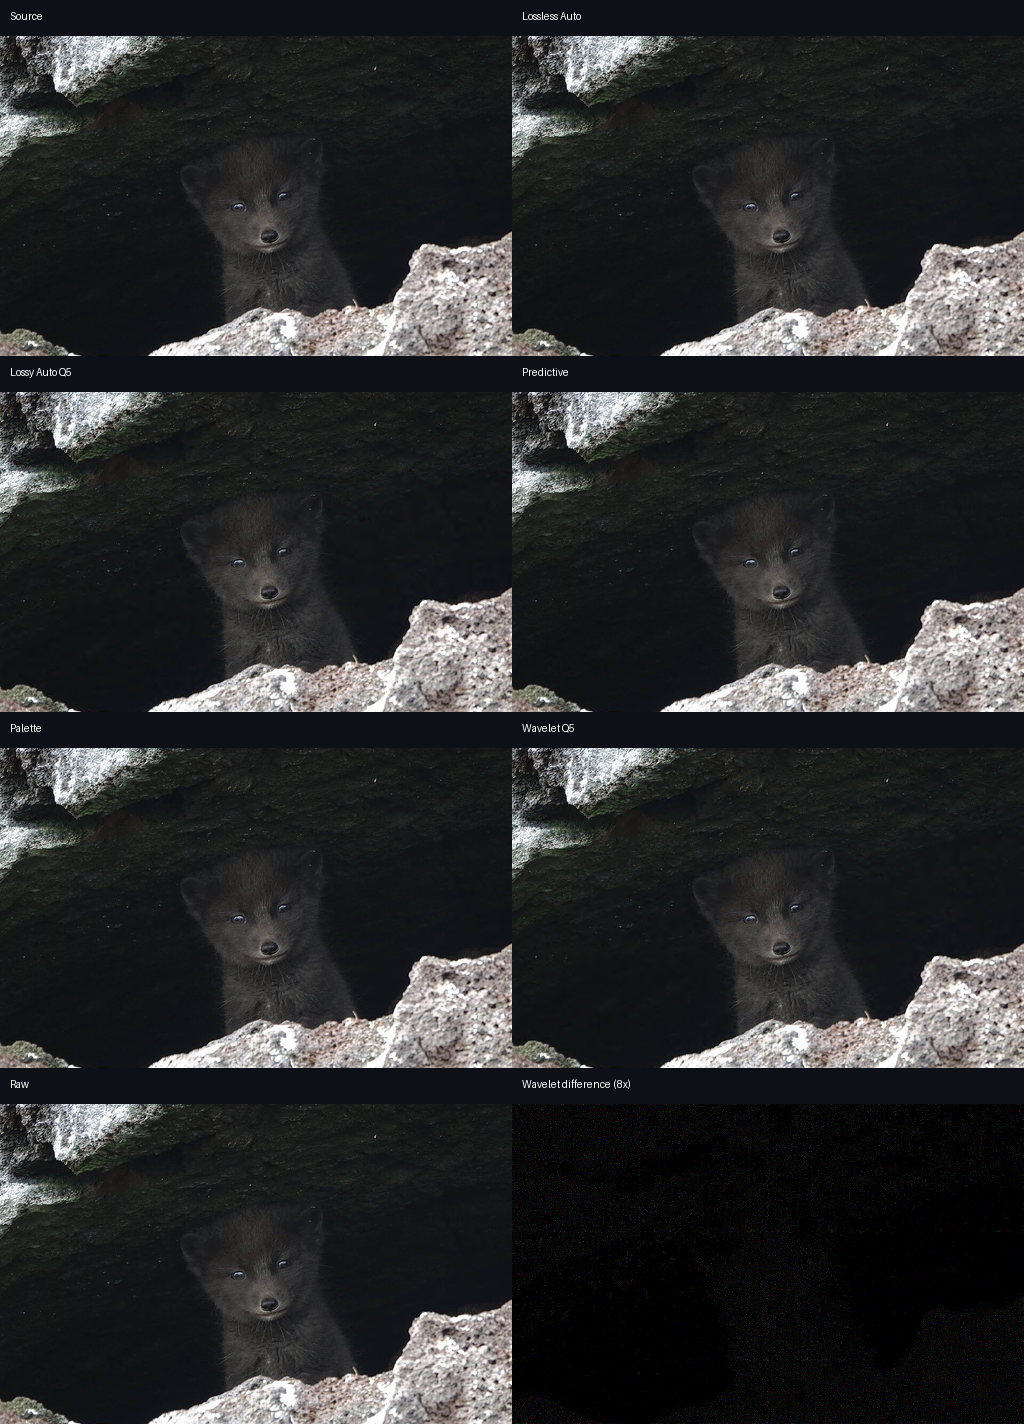
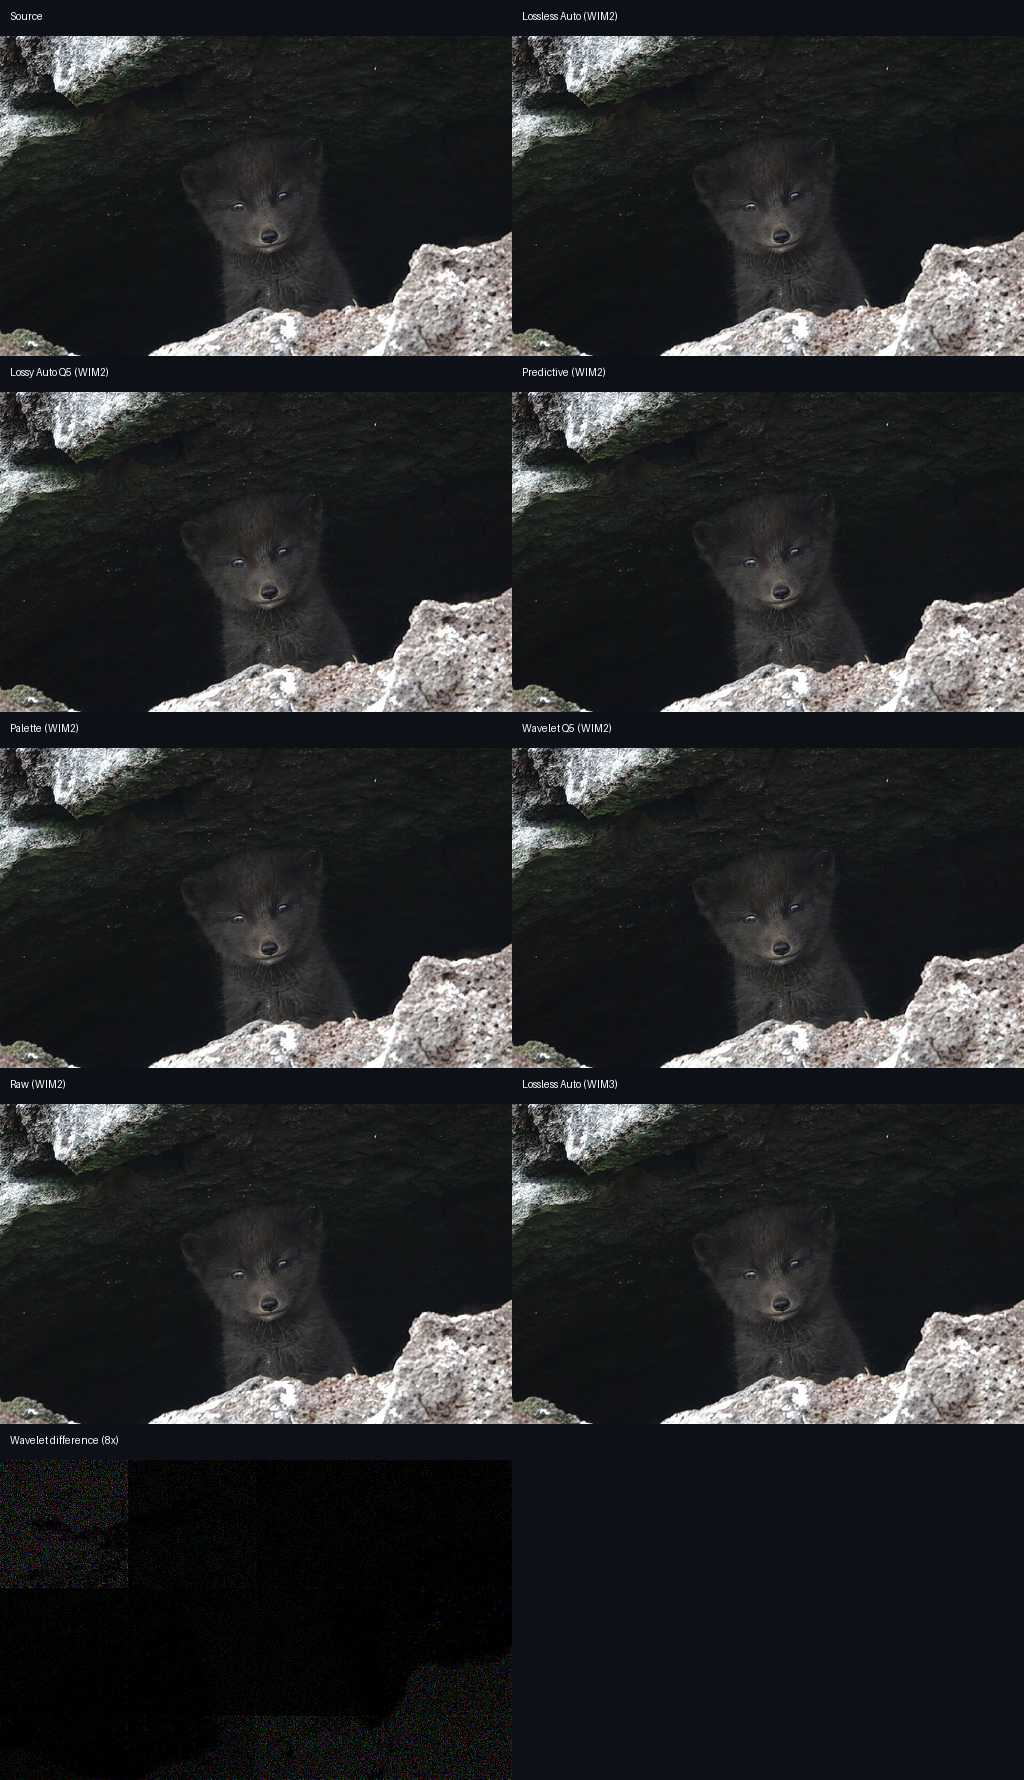
CI: fix missing zstd include, report covers WIM2 and WIM3
The standalone v2_core.o compile lost its -Ithird_party/zstd flag when
it moved to its own line; macOS failed on the missing zstd.h.

The visual codec report now runs every fixture through both containers:
the six classic WIM2 configurations plus a WIM3 lossless-auto row, with
tile_modes dispatching on magic through the public wimf.inspect API.
Also fixes a bug in the new format plumbing: format_version was recorded
in metadata but never passed to the encoder, so every row silently
encoded WIM3. The mixed-selection assertion loosened from specific
Palette/Predictive modes to any mix, since the 2.3 range coder legitimately
shifted auto selection (auto now beats every forced mode on the fixture).

diff --git a/tests/generate_ci_report.py b/tests/generate_ci_report.py
@@ -14,16 +14,34 @@ from PIL import Image, ImageChops, ImageDraw, ImageEnhance, ImageOps
 sys.path.insert(0, str(Path(__file__).resolve().parents[1]))
 
 import wimf  # noqa: E402
-from wimf.hybrid import MODE_NAMES, parse_v2  # noqa: E402
 
 THREADS = 4
+# Every configuration reports under WIM2 (the classic container with lossy
+# tuning); the WIM3 entry documents the new default container, which is
+# lossless-only in this release and ignores codec selection.
 CONFIGURATIONS = [
-    ("lossless_auto", "Lossless Auto", {"lossless": True, "quality": 7, "preset": "Balanced", "codec": "auto"}),
-    ("lossy_auto_q5", "Lossy Auto Q5", {"lossless": False, "quality": 5, "preset": "Balanced", "codec": "auto"}),
-    ("predictive", "Predictive", {"lossless": True, "quality": 7, "preset": "Balanced", "codec": "predictive"}),
-    ("palette", "Palette", {"lossless": True, "quality": 7, "preset": "Balanced", "codec": "palette"}),
-    ("wavelet_q5", "Wavelet Q5", {"lossless": False, "quality": 5, "preset": "Balanced", "codec": "wavelet"}),
-    ("raw", "Raw", {"lossless": True, "quality": 7, "preset": "Balanced", "codec": "raw"}),
+    (
+        "lossless_auto",
+        "Lossless Auto (WIM2)",
+        {"lossless": True, "quality": 7, "preset": "Balanced", "codec": "auto"},
+        2,
+    ),
+    (
+        "lossy_auto_q5",
+        "Lossy Auto Q5 (WIM2)",
+        {"lossless": False, "quality": 5, "preset": "Balanced", "codec": "auto"},
+        2,
+    ),
+    (
+        "predictive",
+        "Predictive (WIM2)",
+        {"lossless": True, "quality": 7, "preset": "Balanced", "codec": "predictive"},
+        2,
+    ),
+    ("palette", "Palette (WIM2)", {"lossless": True, "quality": 7, "preset": "Balanced", "codec": "palette"}, 2),
+    ("wavelet_q5", "Wavelet Q5 (WIM2)", {"lossless": False, "quality": 5, "preset": "Balanced", "codec": "wavelet"}, 2),
+    ("raw", "Raw (WIM2)", {"lossless": True, "quality": 7, "preset": "Balanced", "codec": "raw"}, 2),
+    ("v3_lossless", "Lossless Auto (WIM3)", {"lossless": True, "format_version": 3}, 3),
 ]
 
 
@@ -38,10 +56,7 @@ def encode_decode(image, options):
 
 
 def tile_modes(payload):
-    counts = {name: 0 for name in MODE_NAMES.values()}
-    for entry in parse_v2(payload)["entries"]:
-        counts[MODE_NAMES[entry[4]]] += 1
-    return {name: count for name, count in counts.items() if count}
+    return {name: count for name, count in wimf.inspect(payload)["tile_modes"].items() if count}
 
 
 def metrics(source, decoded, payload, encode_ms, decode_ms):
@@ -105,17 +120,19 @@ def build_comparison(panels):
 
 
 def options_text(options):
-    return ", ".join(
-        [
+    version = options.get("format_version", 2)
+    parts = [f"format=WIM{version}"]
+    if version == 2:
+        parts += [
             f"codec={options['codec']}",
             f"lossless={str(options['lossless']).lower()}",
             f"quality={options['quality']}",
             f"preset={options['preset']}",
-            f"threads={THREADS}",
-            "tile=128x128",
-            "format=WIM2",
         ]
-    )
+    else:
+        parts.append("lossless=true (lossy v3 lands with perceptual quantization)")
+    parts.append(f"threads={THREADS}")
+    return ", ".join(parts)
 
 
 def report_fixture(slug, title, source, credit, output, preview_dir):
@@ -123,12 +140,13 @@ def report_fixture(slug, title, source, credit, output, preview_dir):
     fixture_dir.mkdir(parents=True, exist_ok=True)
     source.save(fixture_dir / "source.png")
     results, decoded_images = {}, {}
-    for key, label, options in CONFIGURATIONS:
-        payload, decoded, encode_ms, decode_ms = encode_decode(source, options)
+    for key, label, options, version in CONFIGURATIONS:
+        encode_options = {**options, "format_version": version}
+        payload, decoded, encode_ms, decode_ms = encode_decode(source, encode_options)
         results[key] = {
             "label": label,
-            "configuration": options_text(options),
-            "options": {**options, "threads": THREADS, "tile_size": 128, "format_version": 2},
+            "configuration": options_text(encode_options),
+            "options": {**encode_options, "threads": THREADS, "tile_size": 128},
             **metrics(source, decoded, payload, encode_ms, decode_ms),
         }
         decoded_images[key] = decoded
@@ -137,14 +155,14 @@ def report_fixture(slug, title, source, credit, output, preview_dir):
 
     if results["lossless_auto"]["max_error"] != 0:
         raise AssertionError(f"{slug} failed its lossless roundtrip")
-    if slug == "synthetic-mixed" and not {"palette", "predictive"} <= set(results["lossless_auto"]["tile_modes"]):
-        raise AssertionError("synthetic fixture did not exercise mixed Palette/Predictive auto selection")
+    if slug == "synthetic-mixed" and len(results["lossless_auto"]["tile_modes"]) < 2:
+        raise AssertionError("synthetic fixture did not exercise mixed auto tile selection")
 
     difference = ImageEnhance.Contrast(ImageChops.difference(source, decoded_images["wavelet_q5"])).enhance(8)
     difference.save(fixture_dir / "wavelet-difference-8x.png")
     comparison = build_comparison(
         [("Source", source)]
-        + [(label, decoded_images[key]) for key, label, _ in CONFIGURATIONS]
+        + [(label, decoded_images[key]) for key, label, _, _ in CONFIGURATIONS]
         + [("Wavelet difference (8x)", difference)]
     )
     comparison.save(fixture_dir / "comparison.png")
